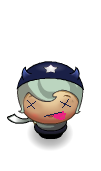
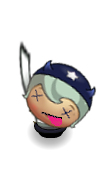
adds happy mode for girl

Changed region(s): [[0.0594, 0.2339, 0.9505, 0.8187]]

diff --git a/P3/js/app.js b/P3/js/app.js
@@ -26,8 +26,8 @@ var Enemy = function(startX, startY, speed) {
     //      they keep on looping until a new game starts
     this.entryPoint = -80;
 
-    if(startX == 0)
-      startX = this.entryPoint;
+    if (startX == 0)
+        startX = this.entryPoint;
 
     this.x = startX;
     this.y = startY;
@@ -91,6 +91,8 @@ Enemy.prototype.render = function() {
 
 //-- Player --
 var Player = function(scoreboard, allEnemies) {
+
+    //player constants
     this.scoreboard = scoreboard;
     this.allEnemies = allEnemies;
 
@@ -100,12 +102,17 @@ var Player = function(scoreboard, allEnemies) {
 Player.prototype.init = function() {
     this.sprite_alive = 'images/char-horn-girl.png';
     this.sprite_dead = 'images/char-horn-girl-skeleton.png';
+    this.sprite_happy = 'images/char-horn-girl-happy.png';
     this.sprite = this.sprite_alive;
 
     //Player's starting point
     //TODO: this would be nicer if it was calculated on board / square size
     this.x = 200;
     this.y = 400;
+
+    //101 and 83 values come from engine.js - they should be generally available instead of hard coded
+    this.yStep = 83;
+    this.xStep = 101;
 
     this.frozen = false;
 };
@@ -116,13 +123,15 @@ Player.prototype.init = function() {
 Player.prototype.levelUp = function() {
     this.scoreboard.levelUp();
 
+    //see https://developer.mozilla.org/en-US/docs/Web/JavaScript/Reference/Global_Objects/Math/random
     var random = function getRandomInt(min, max) {
-        return Math.floor(Math.random() * (max - min)) + min;
+        return Math.floor(Math.random() * (max - min + 1)) + min;
     }
 
     var enemyX = random(0, 300);
-    var enemyY = random(1, 4) * 101;
-    
+    //randomly choose which swim land to place the sprite in (lanes 2 - 5)
+    var enemyY = random(1, 4) * this.yStep;
+
     var enemySpeed = random(10, 50);
 
     this.allEnemies.push(new Enemy(enemyX, enemyY, enemySpeed));
@@ -146,6 +155,10 @@ Player.prototype.update = function() {
 
 Player.prototype.render = function() {
     ctx.drawImage(Resources.get(this.sprite), this.x, this.y);
+
+    var random = function getRandomInt(min, max) {
+        return Math.floor(Math.random() * (max - min)) + min;
+    }
 };
 
 Player.prototype.handleInput = function(direction) {
@@ -155,27 +168,20 @@ Player.prototype.handleInput = function(direction) {
     if (this.frozen)
         return;
 
-    //101 and 83 values come from engine.js - they should be generally available instead of hard coded
-    var yStep = 83;
-    var xStep = 101;
-
-    //TODO: in future versions, could do a better job calculating these from sprite sizes.
-    // (eg Resources could return dimensions)
     switch (direction) {
         case 'left':
-            if (this.x > yStep)
-                this.x -= xStep;
+            this.x = (this.x > 0) ? this.x - this.xStep : this.xStep * 4;
             break;
         case 'right':
-            if (this.x + 200 < ctx.canvas.width)
-                this.x += xStep;
+            this.x = this.x + 200 < ctx.canvas.width ? this.x + this.xStep : 0;
             break;
         case 'up':
             if (this.y > 0) {
 
-                this.y -= yStep;
+                this.y -= this.yStep;
 
                 if (this.y == -15) { //TODO: what kind of magic is -15? Can this be calculated ?
+                    this.sprite = this.sprite_happy;
                     this.frozen = true;
                     this.levelUp();
                     setTimeout(this.init.bind(this), 1000);
@@ -185,7 +191,7 @@ Player.prototype.handleInput = function(direction) {
             break;
         case 'down':
             if (this.y + 250 < ctx.canvas.height)
-                this.y += yStep;
+                this.y += this.yStep;
             break;
     }
 };
@@ -298,7 +304,8 @@ function initEnemies() {
     //clear array. see http://stackoverflow.com/a/1232046/83418
     allEnemies.length = 0;
 
-    allEnemies.push(new Enemy(100, 135, 60));
+    //initial enemy in swim lane #3
+    allEnemies.push(new Enemy(100, (83 * 3), 60));
 }
 initEnemies();
 

diff --git a/P3/js/engine.js b/P3/js/engine.js
@@ -163,6 +163,7 @@ var Engine = (function(global) {
     Resources.load([
         'images/char-boy.png',
         'images/char-horn-girl-skeleton.png',
+        'images/char-horn-girl-happy.png',
         'images/char-horn-girl.png',
         'images/right-gutter.png',
         'images/enemy-bug.png',
